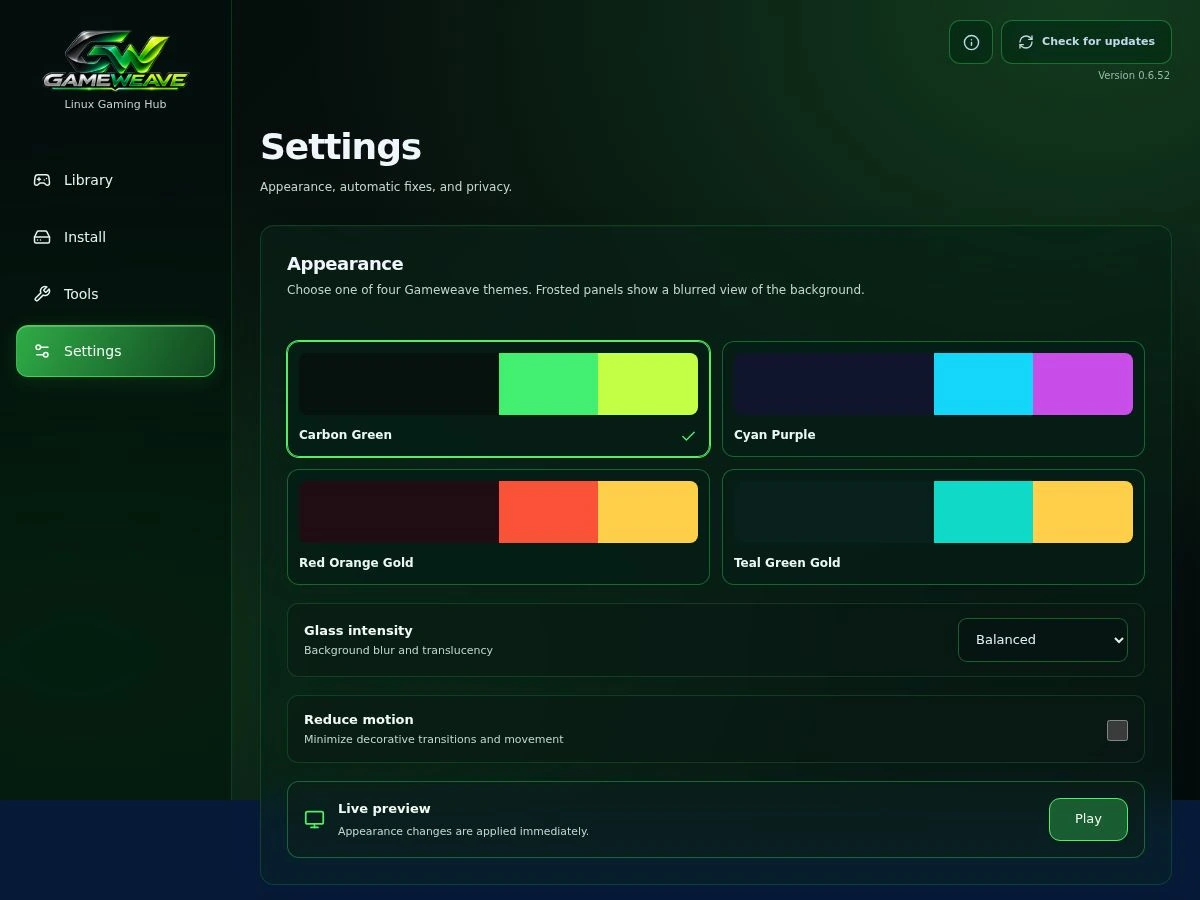
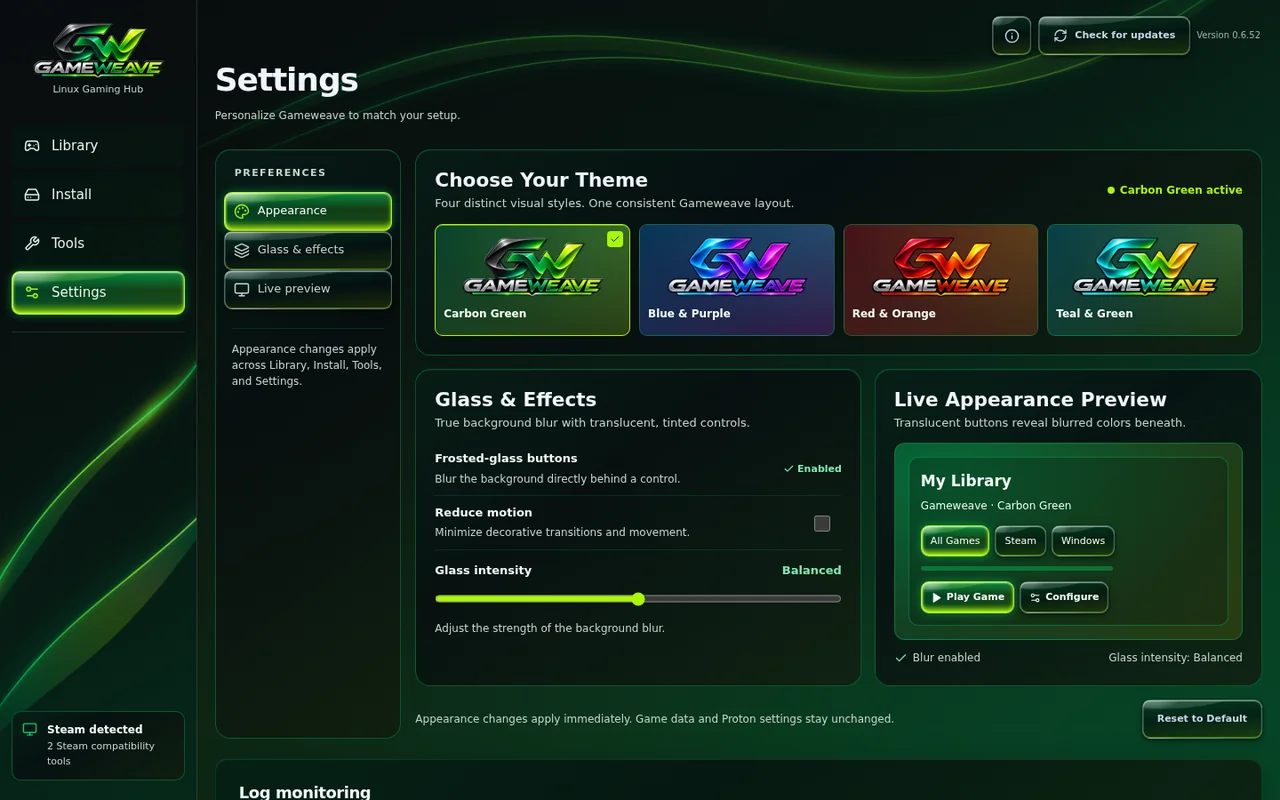
Prepare Gameweave v0.6.53 and refresh the interface screenshots

diff --git a/README.md b/README.md
@@ -4,9 +4,9 @@
 
 Gameweave (formerly Proton Medic) helps Linux players diagnose game problems, manage installed Proton versions, and apply repairs with backups and rollback.
 
-[Existing signed releases](https://github.com/relentlesspoetry-coder/Proton-medic/releases/latest)
+[Download the latest signed release](https://github.com/relentlesspoetry-coder/Proton-medic/releases/latest)
 
-Existing releases retain their Proton Medic package name and signed update channel. The Gameweave UI does not move game files, profiles, or Proton prefixes.
+Gameweave retains the Proton Medic package name and signed update channel so existing installs can update in place. The Gameweave UI does not move game files, profiles, or Proton prefixes.
 
 ## Gameweave UI preview
 
@@ -50,7 +50,7 @@ The update button appears at the top right on every page, with the installed ver
 
 ### Steam Deck / SteamOS
 
-1. Switch to **Desktop Mode** and download `proton-medic_0.6.43_amd64.AppImage` from [Releases](https://github.com/relentlesspoetry-coder/Proton-medic/releases/latest).
+1. Switch to **Desktop Mode** and download the latest `proton-medic_*_amd64.AppImage` from [Releases](https://github.com/relentlesspoetry-coder/Proton-medic/releases/latest).
 2. Move it to a permanent folder such as `~/Applications`. Game shortcuts refer to this location.
 3. In Dolphin, open **Properties → Permissions**, enable **Is executable**, then open the AppImage.
 
@@ -187,3 +187,5 @@ Proton Medic does not bypass anti-cheat or DRM. Launch status and log findings h
 - [v0.6.42 changes](RELEASE-v0.6.42.md)
 
 - [v0.6.43 changes](RELEASE-v0.6.43.md)
+
+- [v0.6.53 changes](RELEASE-v0.6.53.md)

diff --git a/RELEASE-v0.6.53.md b/RELEASE-v0.6.53.md
@@ -1,0 +1,10 @@
+# Gameweave v0.6.53
+
+Proton Medic is now Gameweave in the app. This signed update uses the existing Proton Medic package and updater so existing installations can update in place. It does not move game files, prefixes, or profiles.
+
+- The redesigned Library keeps Steam and Windows games side by side, with a selected-game pane and dedicated detail tabs.
+- The Windows EXE installation wizard brings runtime selection and install status into one flow. It shows activity rather than an estimated percentage if the installer does not report progress.
+- The Tools hub and Appearance settings share the redesigned glass interface.
+- Carbon Green, Blue & Purple, Red & Orange, and Teal & Green use their matching logo gradients. Soft light moves through the background ribbons. In-app and system Reduce Motion keep the ribbons still.
+
+Use **Check for updates** in an existing installation. For a fresh install, use the signed x86-64 AppImage (Steam Deck Desktop Mode and compatible Linux desktops) or the amd64 DEB (compatible Debian/Ubuntu-based desktops).
